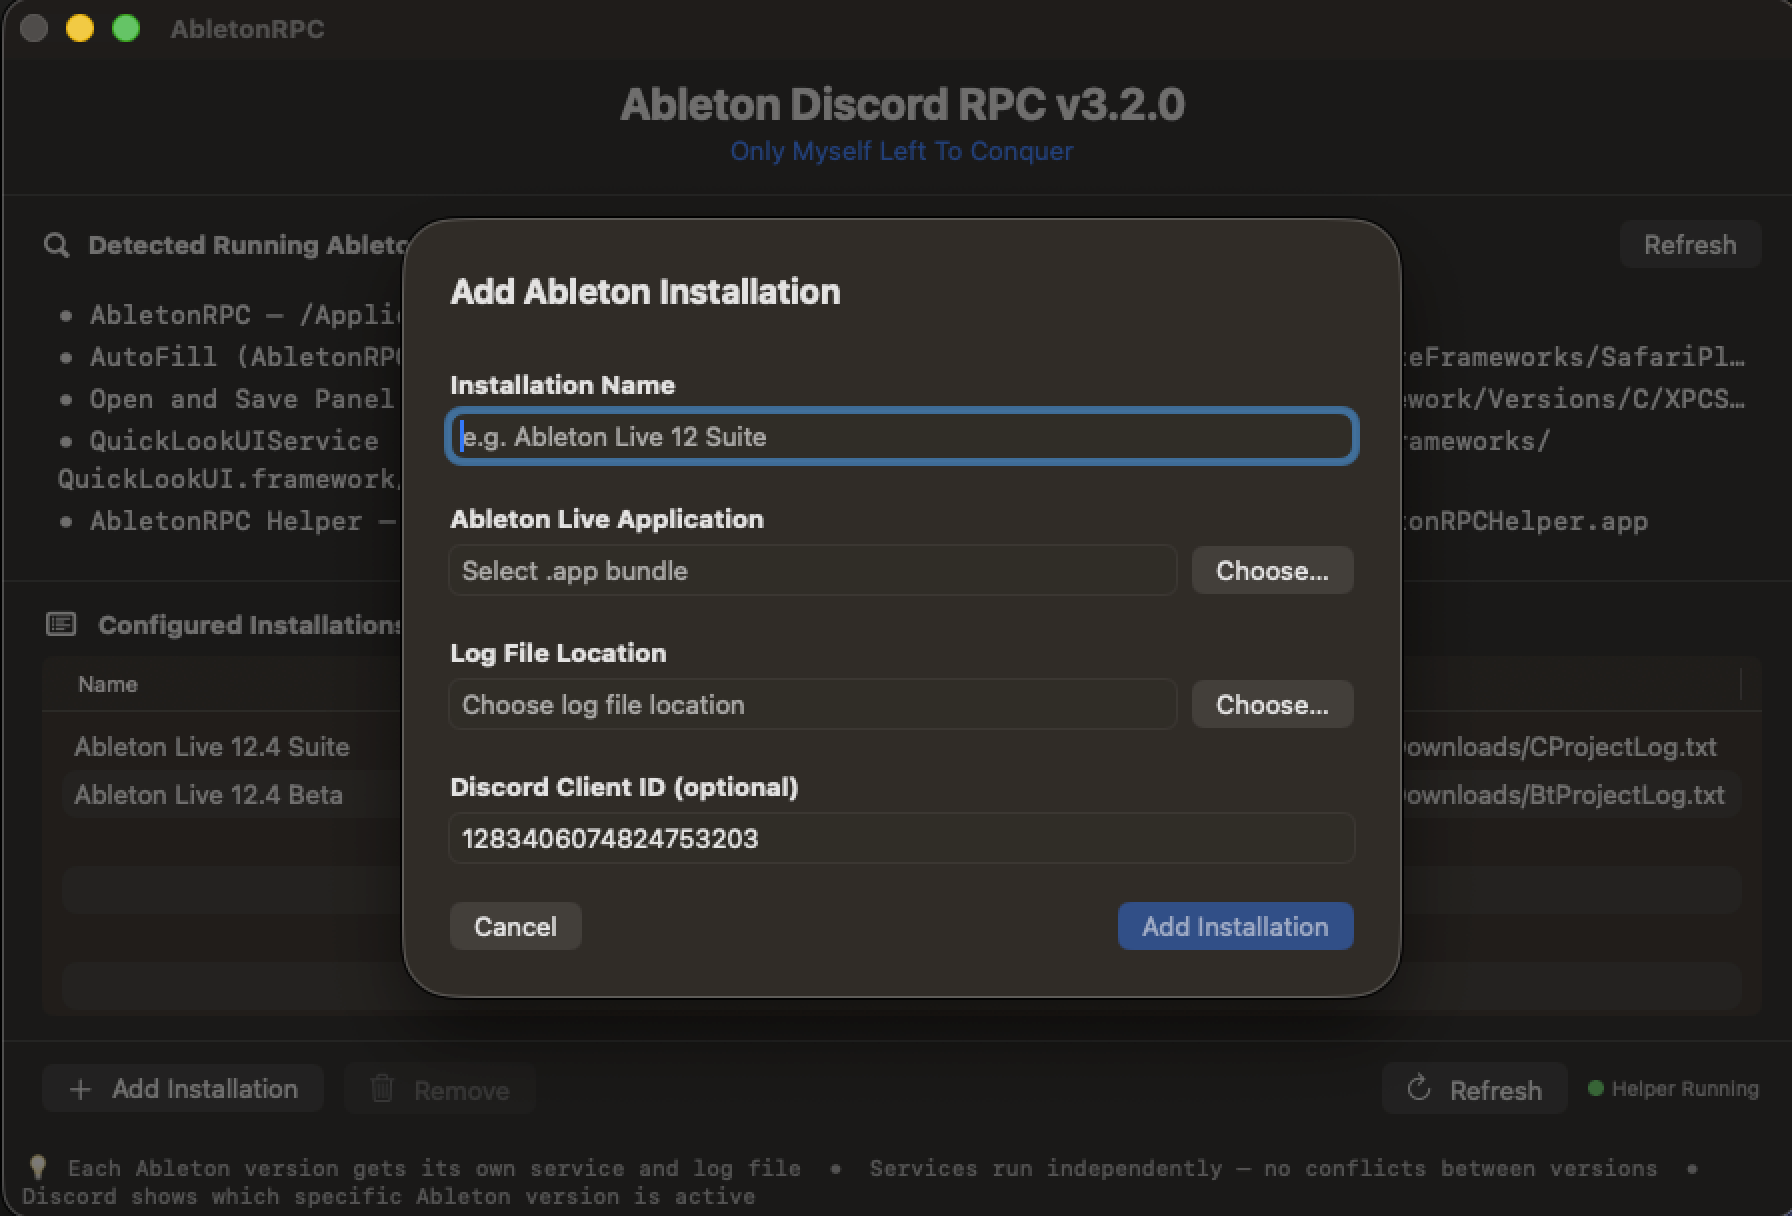
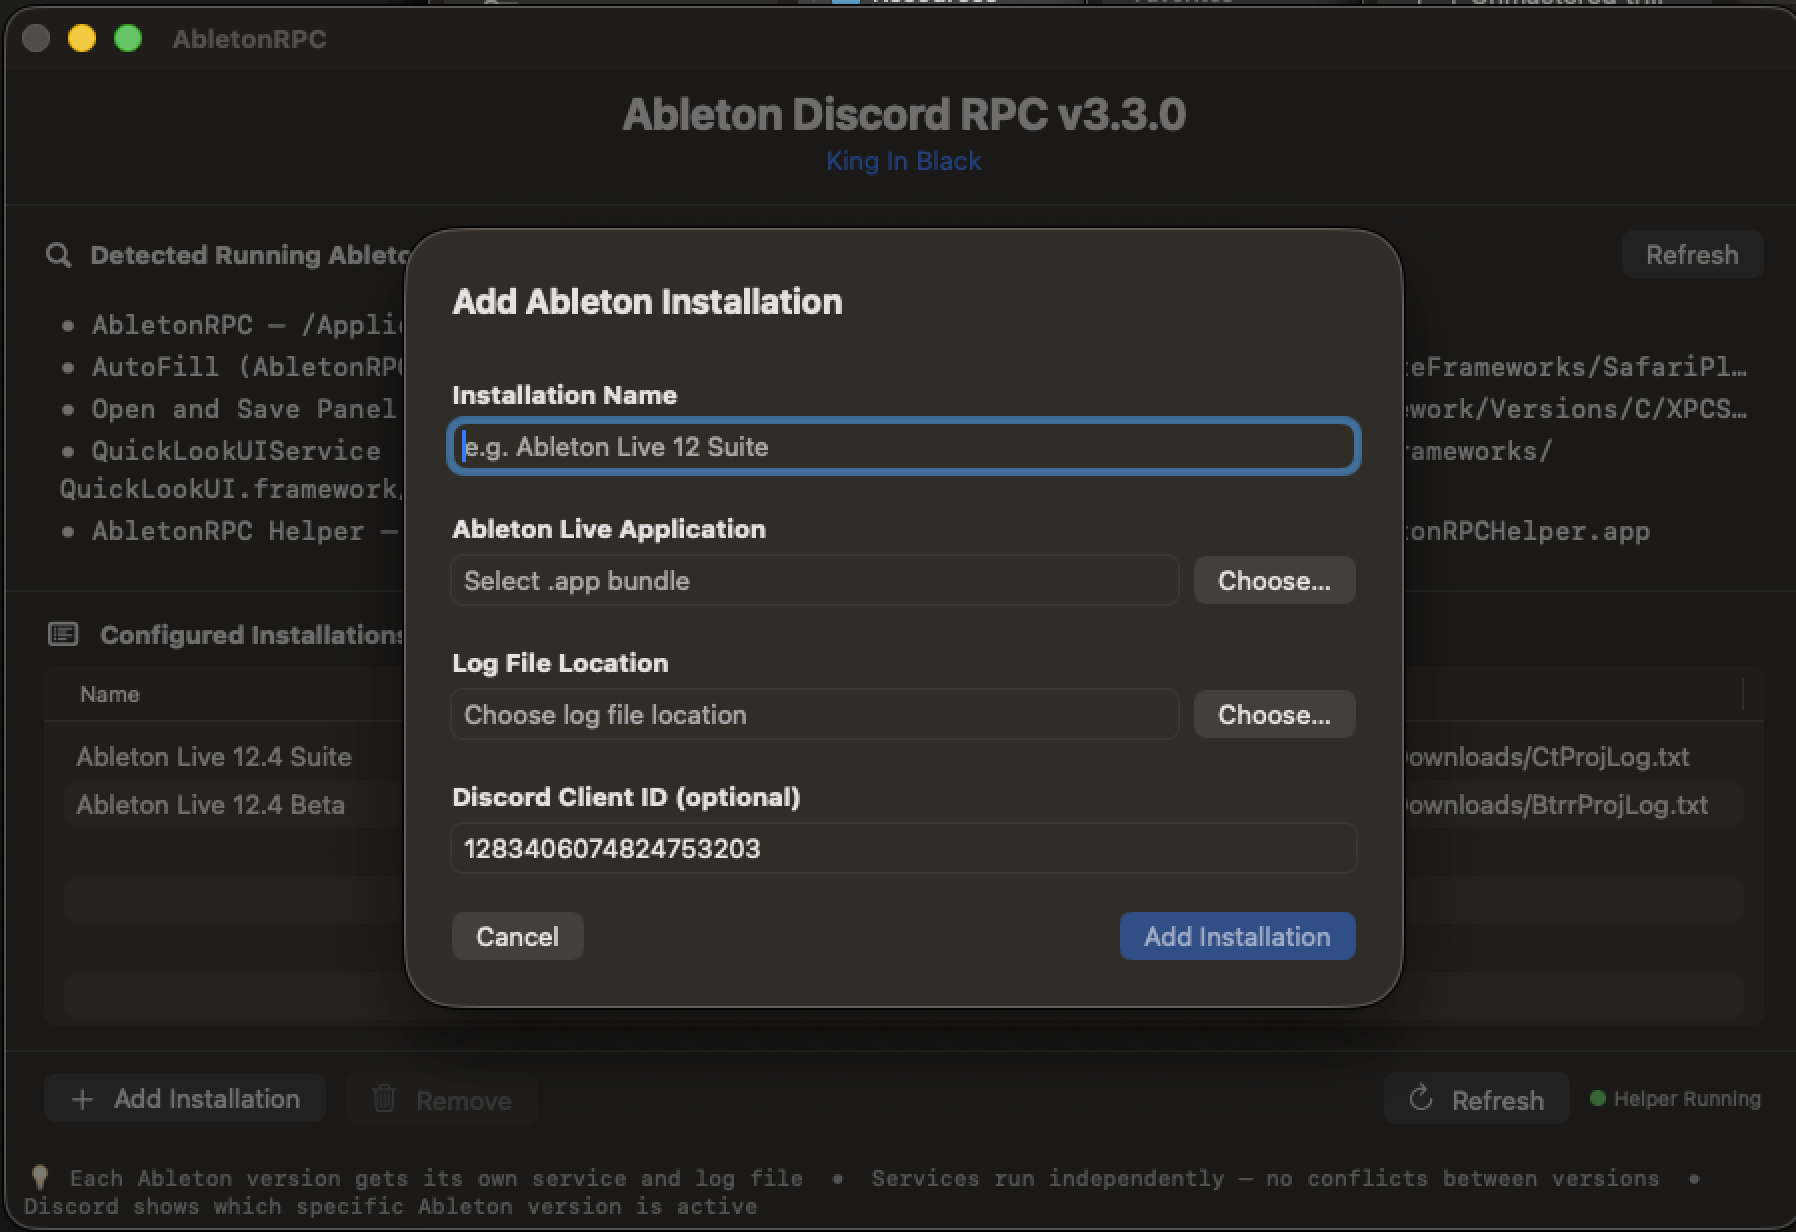
feat: Bump version to 3.3.0, and add key and scale monitoring

diff --git a/AbletonRPC/ContentView.swift b/AbletonRPC/ContentView.swift
@@ -33,9 +33,9 @@ struct ContentView: View {
 
     private var header: some View {
         VStack(spacing: 2) {
-            Text("Ableton Discord RPC v3.2.0")
+            Text("Ableton Discord RPC v3.3.0")
                 .font(.system(size: 22, weight: .bold))
-            Text("Only Myself Left To Conquer")
+            Text("King In Black")
                 .font(.system(size: 13))
                 .foregroundColor(.accentColor)
         }

diff --git a/Resources/ableton_rpc.py b/Resources/ableton_rpc.py
@@ -228,6 +228,14 @@ class FauxMIDI(ControlSurface):
                 self.song.add_is_playing_listener(self.log_state)
             if hasattr(self.song, "record_mode_has_listener") and not self.song.record_mode_has_listener(self.log_state):
                 self.song.add_record_mode_listener(self.log_state)
+            # Project key listeners (v3.3+) — fire whenever the user changes key or scale
+            try:
+                if hasattr(self.song, "root_note_has_listener") and not self.song.root_note_has_listener(self.log_state):
+                    self.song.add_root_note_listener(self.log_state)
+                if hasattr(self.song, "scale_name_has_listener") and not self.song.scale_name_has_listener(self.log_state):
+                    self.song.add_scale_name_listener(self.log_state)
+            except Exception as e:
+                self._debug_log(f"Key listeners skipped (Live 11+ required): {e}")
             # Track and device selection listeners (v3.1+)
             try:
                 view = self.song.view
@@ -239,6 +247,23 @@ class FauxMIDI(ControlSurface):
                 self._debug_log(f"Track/device listener setup skipped: {e}")
         except Exception as e:
             self._debug_log(f"Listener setup error: {e}")
+
+    def _get_key(self):
+        """Return a human-readable key string e.g. 'C# Minor', or None if unavailable."""
+        NOTE_NAMES = ["C", "C#", "D", "D#", "E", "F",
+                      "F#", "G", "G#", "A", "A#", "B"]
+        try:
+            root = getattr(self.song, "root_note", None)
+            scale = getattr(self.song, "scale_name", None)
+            if root is None:
+                return None
+            note = NOTE_NAMES[int(root) % 12]
+            if scale:
+                return f"{note} {scale}"
+            return note
+        except Exception as e:
+            self._debug_log(f"Key detection error: {e}")
+            return None
 
     def _get_track_info(self):
         """Return (track_name, track_type, device_name) for the currently selected track.
@@ -321,6 +346,7 @@ class FauxMIDI(ControlSurface):
             state = "Recording" if record_mode else ("Playing" if is_playing else "Stopped")
 
             track_name, track_type, device_name = self._get_track_info()
+            key = self._get_key()
 
             os.makedirs(os.path.dirname(self.log_file_path), exist_ok=True)
             with open(self.log_file_path, "w", encoding="utf-8") as f:
@@ -328,6 +354,8 @@ class FauxMIDI(ControlSurface):
                 f.write(f"TEMPO:{tempo}\\n")
                 f.write(f"STATE:{state}\\n")
                 f.write(f"INSTALLATION:{self.installation_name}\\n")
+                if key:
+                    f.write(f"KEY:{key}\\n")
                 if track_name:
                     f.write(f"TRACK:{track_name}\\n")
                 if track_type:
@@ -343,7 +371,8 @@ class FauxMIDI(ControlSurface):
         try:
             self._debug_log("FauxMIDI disconnecting...")
             for remove in ["remove_name_listener", "remove_tempo_listener",
-                           "remove_is_playing_listener", "remove_record_mode_listener"]:
+                           "remove_is_playing_listener", "remove_record_mode_listener",
+                           "remove_root_note_listener", "remove_scale_name_listener"]:
                 try:
                     if hasattr(self.song, remove):
                         getattr(self.song, remove)(self.log_state)
@@ -573,6 +602,7 @@ class AbletonRPCApp:
         tempo      = data.get("TEMPO", "120")
         state      = data.get("STATE", "Stopped")
         inst_name  = data.get("INSTALLATION", self.installation.name)
+        key        = data.get("KEY")
         track      = data.get("TRACK")
         track_type = data.get("TRACK_TYPE")
         device     = data.get("DEVICE")
@@ -580,11 +610,10 @@ class AbletonRPCApp:
         # ── Acquire or check lock ──────────────────────────────────────────
         self.owns_lock = _try_acquire_lock(self.installation.install_hash, state)
         if not self.owns_lock:
-            # Another installation owns the presence — don't update Discord
             time.sleep(3)
             return
 
-        payload = (project, tempo, state, track, device)
+        payload = (project, tempo, state, key, track, device)
         if payload == self.last_payload:
             time.sleep(3)
             return
@@ -598,7 +627,10 @@ class AbletonRPCApp:
             else:
                 details  = project
 
+            # state line: "Playing · 120 BPM · C# Minor · Compressor"
             state_str = f"{state} · {tempo} BPM"
+            if key:
+                state_str += f" · {key}"
             if device:
                 state_str += f" · {device}"
 
@@ -612,9 +644,10 @@ class AbletonRPCApp:
                 large_text=inst_name,
                 start=self.start_time,
             )
+            key_info    = f" | {key}" if key else ""
             track_info  = f" | {track}" if track else ""
             device_info = f" → {device}" if device else ""
-            print(f"📡 [{inst_name}] {project}{track_info}{device_info} | {state} | {tempo} BPM")
+            print(f"📡 [{inst_name}] {project}{key_info}{track_info}{device_info} | {state} | {tempo} BPM")
         except Exception as e:
             print(f"⚠  [{self.installation.name}] RPC update error: {e}")
             self.rpc      = None

diff --git a/README.md b/README.md
@@ -61,7 +61,7 @@ cd AbletonRPC/AbletonRPC-GUI
    ![Setup flow](Step2.png)
 
 4. Click **Add Installation** — AbletonRPC installs the FauxMIDI script and registers the background helper automatically
-5. Restart Ableton Live, then go to **Preferences → MIDI** and set `FauxMIDI` as a Control Surface
+5. **Restart Ableton Live twice** — once to unload any previously loaded FauxMIDI, and again to load the new one cleanly. This is a known quirk of how Ableton handles MIDI Remote Script hot-swapping.
 
    ![MIDI preferences](https://i.ibb.co/9pbMpW1/Ableton-MIDIprefs.png)
 
@@ -135,7 +135,11 @@ Drop-in upgrade — no reinstall required. Rebuild and install:
 ./build.sh --install
 ```
 
-Then clear stale daemons as above. Re-add your installations in the GUI to get the updated FauxMIDI script with smarter device reporting.
+Then clear stale daemons as above. Re-add your installations in the GUI to get the updated FauxMIDI script with smarter device reporting. **Restart Ableton twice** after re-adding — once to unload the old FauxMIDI, once to load the new one.
+
+### v3.2.0 → v3.3.0
+
+Drop-in — rebuild and install, clear stale daemons, re-add installations. **Restart Ableton twice** after re-adding to get key detection working.
 
 ### v3.0.0 → v3.1.0
 
@@ -215,6 +219,12 @@ rm -f ~/Library/Application\ Support/AbletonRPC/daemon-*.lock
 ```
 
 The helper will relaunch everything automatically within a few seconds.
+
+---
+
+**Q. I re-added my installation but the presence still shows the old project name / no key.**
+
+Restart Ableton twice — once to fully unload the old FauxMIDI script, and again to load the new one. Ableton doesn't always hot-swap MIDI Remote Scripts cleanly on a single restart.
 
 ---
 
